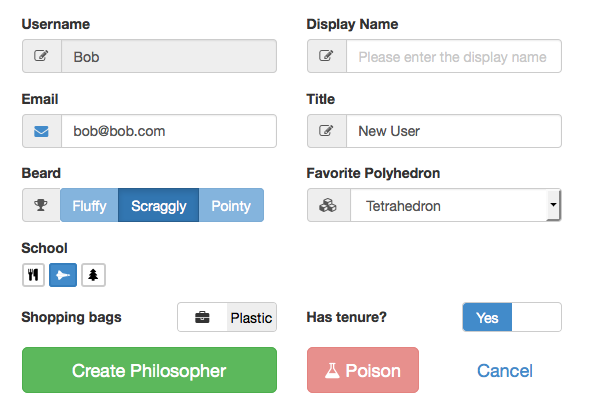
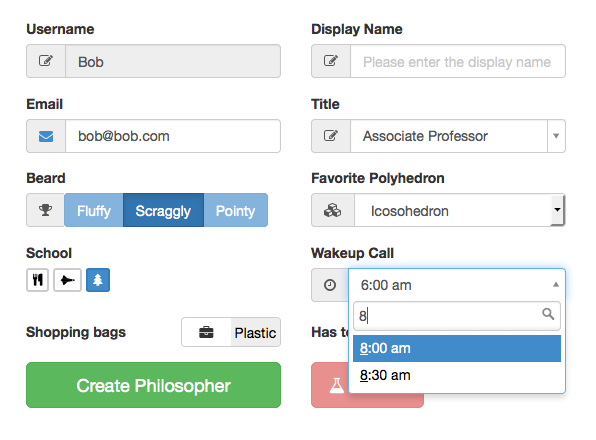
Add hidden, selectTime field types

diff --git a/form_builder.php b/form_builder.php
@@ -12,7 +12,7 @@ class FormBuilder {
      * 'icon'
      * 'icon_link'
      * 'addon_end'
-     * 'type': 'text', 'password', 'toggle', 'select', 'select2', 'switch', 'radioGroup'
+     * 'type': 'hidden', 'text', 'password', 'toggle', 'select', 'select2', 'selectTime', 'switch', 'radioGroup'
      * 'preprocess' : a function to call to process the value before rendering.
      * 'default' : the default value to use if a value is not specified
      */
@@ -37,7 +37,9 @@ class FormBuilder {
         // Render fields
         foreach ($this->_fields as $field_name => $field){
             $type = isset($field['type']) ? $field['type'] : "text";
-            if ($type == "text"){
+            if ($type == "hidden"){
+                $rendered_fields[$field_name] = $this->renderHiddenField($field_name);
+            } else if ($type == "text"){
                 $rendered_fields[$field_name] = $this->renderTextField($field_name);
             } else if ($type == "password") {
                 $rendered_fields[$field_name] = $this->renderPasswordField($field_name);
@@ -47,6 +49,8 @@ class FormBuilder {
                 $rendered_fields[$field_name] = $this->renderSelectField($field_name);
             } else if ($type == "select2") {
                 $rendered_fields[$field_name] = $this->renderSelect2Field($field_name);
+            } else if ($type == "selectTime") {
+                $rendered_fields[$field_name] = $this->renderSelectTimeField($field_name);
             } else if ($type == "switch") {
                 $rendered_fields[$field_name] = $this->renderSwitchField($field_name);
             } else if ($type == "radioGroup") {
@@ -59,6 +63,12 @@ class FormBuilder {
         }
             
         return replaceKeyHooks($rendered_fields, $result);
+    }
+    
+    private function renderHiddenField($field_name){
+        $field_data = $this->generateFieldData($field_name);
+        $result = "<input type='hidden' name='{{name}}' value='{{value}}' {{disabled}}>";
+        return replaceKeyHooks($field_data, $result);    
     }
     
     // Renders a text field with the specified name.
@@ -147,11 +157,10 @@ class FormBuilder {
             <label>{{label}}</label>
             <div class='input-group'>
               <span class='input-group-addon'>{{addon}}</span>
-              <select class='form-control' name='{{name}}' {{disabled}}>";
+              <select class='form-control' name='{{name}}' data-validate='{{validator_str}}' {{disabled}}>";
         
-        // Render choices (toggles)
+        // Render choices (options)
         foreach ($choices as $choice => $choice_label){
-            // Special trick for making readonly radio buttons: make one checked and the rest disabled
             if ($field_data['value'] == $choice){ 
                 $result .=  "<option value='$choice' selected>$choice_label</option>";
             } else {
@@ -170,8 +179,8 @@ class FormBuilder {
     // Renders a select2 field with the specified name.
     private function renderSelect2Field($field_name){
         $field_data = $this->generateFieldData($field_name);
-        
         $field = $this->_fields[$field_name];
+        $field_data['data_placeholder'] = isset($field['placeholder']) ? "data-placeholder='{$field['placeholder']}'": "";
         $choices = isset($field['choices']) ? $field['choices'] : array();
         
         $result = "
@@ -179,15 +188,26 @@ class FormBuilder {
             <label>{{label}}</label>
             <div class='input-group select2-bootstrap-prepend'>
               <span class='input-group-addon'>{{addon}}</span>
-              <select class='form-control select2' name='{{name}}' {{disabled}}>";
+              <select class='form-control select2' name='{{name}}' {{data_placeholder}} data-validate='{{validator_str}}' {{disabled}}>";
         
-        // Render choices (toggles)
-        foreach ($choices as $choice => $choice_label){
-            // Special trick for making readonly radio buttons: make one checked and the rest disabled
-            if ($field_data['value'] == $choice){ 
-                $result .=  "<option value='$choice' selected>$choice_label</option>";
+        // Required empty option for placeholders
+        if (isset($field['placeholder'])){
+            $result .= "<option></option>";
+        }
+        
+        // Render choices (options)
+        foreach ($choices as $choice_value => $choice){
+            $label = isset($choice['label']) ? $choice['label'] : $choice_value;
+            $data = isset($choice['data']) ? $choice['data'] : array();
+            // Render additional data fields, if any
+            $data_str = "";
+            foreach ($data as $name => $value){
+                $data_str .= "data-$name='$value' ";
+            }
+            if ($field_data['value'] == $choice_value){ 
+                $result .=  "<option value='$choice_value' $data_str selected>$label</option>";
             } else {
-                $result .=  "<option value='$choice'>$choice_label</option>";     
+                $result .=  "<option value='$choice_value' $data_str>$label</option>";     
             }	
         }
         
@@ -198,7 +218,25 @@ class FormBuilder {
         
         return replaceKeyHooks($field_data, $result);
     }      
-    
+
+    // Dropdown for selecting times
+    private function renderSelectTimeField($field_name){
+        $field = $this->_fields[$field_name];
+        $time_start = isset($field['time_start']) ? $field['time_start'] : "12:00 am";
+        $time_end = isset($field['time_end']) ? $field['time_end'] : "11:30 pm";
+        $time_increment = isset($field['time_increment']) ? $field['time_increment'] : 15;        
+        // Build time choices
+        $this->_fields[$field_name]['choices'] = array();
+        $range = range(strtotime($time_start),strtotime($time_end),$time_increment*60);
+        foreach($range as $time){
+            $time_val = date("g:i a",$time);
+            $this->_fields[$field_name]['choices'][$time_val] = [
+                'label' => $time_val
+                ];
+        }
+        return $this->renderSelect2Field($field_name);
+        
+    }
     private function renderSwitchField($field_name){
     
         $field_data = $this->generateFieldData($field_name);

diff --git a/index.php b/index.php
@@ -176,6 +176,9 @@
                 <div class='col-sm-6'>
                     {{school}}
                 </div>
+                <div class='col-sm-6'>
+                    {{wakeup}}
+                </div>
             </div>
             <div class='row'>
                 <div class='col-sm-6'>
@@ -232,6 +235,18 @@
                 ],
                 'placeholder' => 'Email goes here'
             ],
+            'wakeup' => [
+                'type' => 'selectTime',
+                'label' => 'Wakeup Call',
+                'icon' => 'fa fa-clock-o',
+                'validator' => [
+                    'selected' => true,
+                    'label' => 'Wakeup Call'
+                ],
+                'time_start' => '5:00 am',
+                'time_end' => '12:00 pm',
+                'time_increment' => 30
+            ],    
             'title' => [
                 'type' => 'select2',
                 'label' => 'Title',
@@ -240,13 +255,27 @@
                     'label' => 'Title'
                 ],
                 'choices' => [
-                    'ta' => 'Teaching Assistant',
-                    'street_lord' => 'Street Lord',
-                    'adjunct' => 'Adjunct Instructor',
-                    'assistant' => 'Assistant Professor',
-                    'associate' => 'Associate Professor',
-                    'professor' => 'Professor',
-                    'emeritus' => 'Professor Emeritus'
+                    'ta' => [
+                        'label' => 'Teaching Assistant'
+                        ],
+                    'street_lord' => [
+                        'label' => 'Street Lord'
+                        ],
+                    'adjunct' => [
+                        'label' => 'Adjunct Instructor'
+                        ],
+                    'assistant' => [
+                        'label' => 'Assistant Professor'
+                        ],
+                    'associate' => [
+                        'label' => 'Associate Professor'
+                        ],
+                    'professor' => [
+                        'label' => 'Professor'
+                        ],
+                    'emeritus' => [
+                        'label' => 'Professor Emeritus'
+                        ]
                 ],
                 'default' => 'assistant'
             ],

diff --git a/README.md b/README.md
@@ -96,7 +96,7 @@ In this example, the engine will look for a sub-array in each row named "names".
 
 ### Supports
 
-- text, password, toggle, select, [select2](https://ivaynberg.github.io/select2/), [bootstrapradio](https://github.com/alexweissman/bootstrapradio), and [bootstrap-switch](http://www.bootstrap-switch.org/) input controls
+- text, password, hidden, toggle, select, [select2](https://ivaynberg.github.io/select2/), selectTime, [bootstrapradio](https://github.com/alexweissman/bootstrapradio), and [bootstrap-switch](http://www.bootstrap-switch.org/) input controls
 - pre-populate field with values from an array.  Useful for forms that "update" some information.
 - fields can be hidden or disabled programmatically
 - default field values
@@ -139,7 +139,7 @@ $fields = [
     'field1' =>
         'name' => :field name attribute.  Default is array key (i.e. 'field1').     
         'label' => :Field label:,
-        'type' => :'text'|'password'|'toggle'|'select'|'select2'|'switch'|'radioGroup':,
+        'type' => :'hidden'|'text'|'password'|'toggle'|'select'|'select2'|'selectTime'|'switch'|'radioGroup':,
         'display' => :'show'|'hidden'|'disabled':,
         'icon' => :field add-on icon:,
         'icon_link' => :icon target link: (optional),
@@ -151,6 +151,9 @@ $fields = [
         'choices' => :array of options.  'toggle', 'select', 'select2', and 'radioGroup' types only.:
         'on' => :label for switches when they are turned on.  'switch' type only.:
         'off' => :label for switches when they are turned off.  'switch' type only.:
+        'time_start' => :a string representing the first time option ('selectTime' only):
+        'time_end' => :a string representing the last time option ('selectTime' only):
+        'time_increment' => :a string representing the increment between time options ('selectTime' only):
         ],
     'field2' => ...
 
@@ -184,6 +187,10 @@ echo $fb->render();
 
 ### Field types
 
+#### <code>hidden</code>
+
+Standard hidden input field.  Can have a name, value, and disabled status.
+
 #### <code>text</code>
 
 Standard input field with label.  Wrapped in `input_group`, then in `form_group`.
@@ -203,6 +210,10 @@ Dropdown menu with label, overlays the `select` input type.  Wrapped in `input_g
 #### <code>select2</code>
 
 [Select2](https://ivaynberg.github.io/select2/) searchable dropdown with label, overlays the `select` input type.  Wrapped in `input_group`, then in `form_group`.
+
+#### <code>selectTime</code>
+
+Searchable dropdown for picking a time of day.  Implemented using the [Select2](https://ivaynberg.github.io/select2/) plugin (included).  Wrapped in `input_group`, then in `form_group`.
 
 #### <code>switch</code>
 
@@ -236,6 +247,11 @@ Creates a button that is used for any other form action.  Gets the HTML5 button 
 Use the <code>hideable</code> class to make Bootstrap columns that will collapse when empty.  This is useful for creating templates for forms with buttons that appear or disappear in different contexts.
 
 ## Changelog
+
+### 0.1.3
+
+- Added the 'selectTime' and 'hidden' input types.
+- Added placeholders, data-* fields for options in select2 fields.
 
 ### 0.1.2
 
